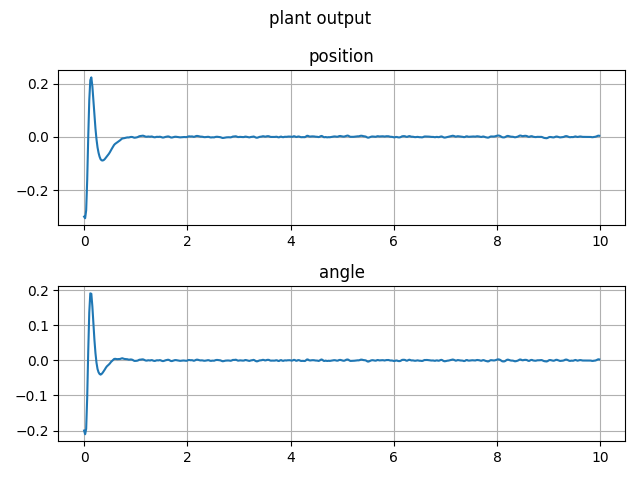
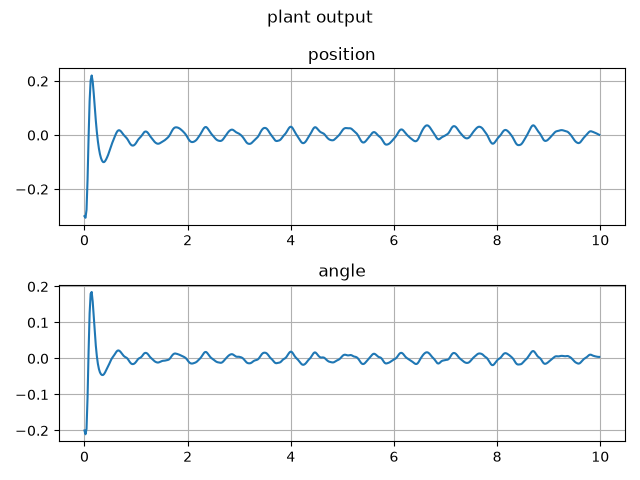
...

diff --git a/interface/plant/py/hardware/plant_with_swing_up.py b/interface/plant/py/hardware/plant_with_swing_up.py
@@ -25,7 +25,7 @@ def sig_handler(*args):
 signal.signal(signal.SIGINT, sig_handler)
 
 # simulation time and plotting set
-simulationTime = 30 # will run for 30 seconds
+simulationTime = 15 # will run for 15 seconds
 color = np.array([0, 1, 0], dtype=np.float64)
 
 scopePendulum = Scope(
@@ -57,7 +57,7 @@ def control_loop():
     qubeversion = 3
     
     # if you want to use Ouanser Interactive Labs, you will change to 0
-    hardware = 1
+    hardware = 0
     
     pendulum = 1
 

diff --git a/interface/plant/py/hardware/plant.py b/interface/plant/py/hardware/plant.py
@@ -58,7 +58,7 @@ def control_loop():
     qubeversion = 3
     
     # if you want to use Ouanser Interactive Labs, you will change to 0
-    hardware = 1
+    hardware = 0
     
     pendulum = 1
 

diff --git a/interface/plant/py/simulation/plant.py b/interface/plant/py/simulation/plant.py
@@ -79,7 +79,7 @@ def main():
         axes[1].grid(True)
         fig.suptitle('plant output')
         plt.tight_layout()
-        plt.savefig('./interface/plant/py/simulation/result/plant output as sim.png')
+        plt.savefig('./result/plant output as sim.png')
 
 if __name__ == "__main__":
     main()